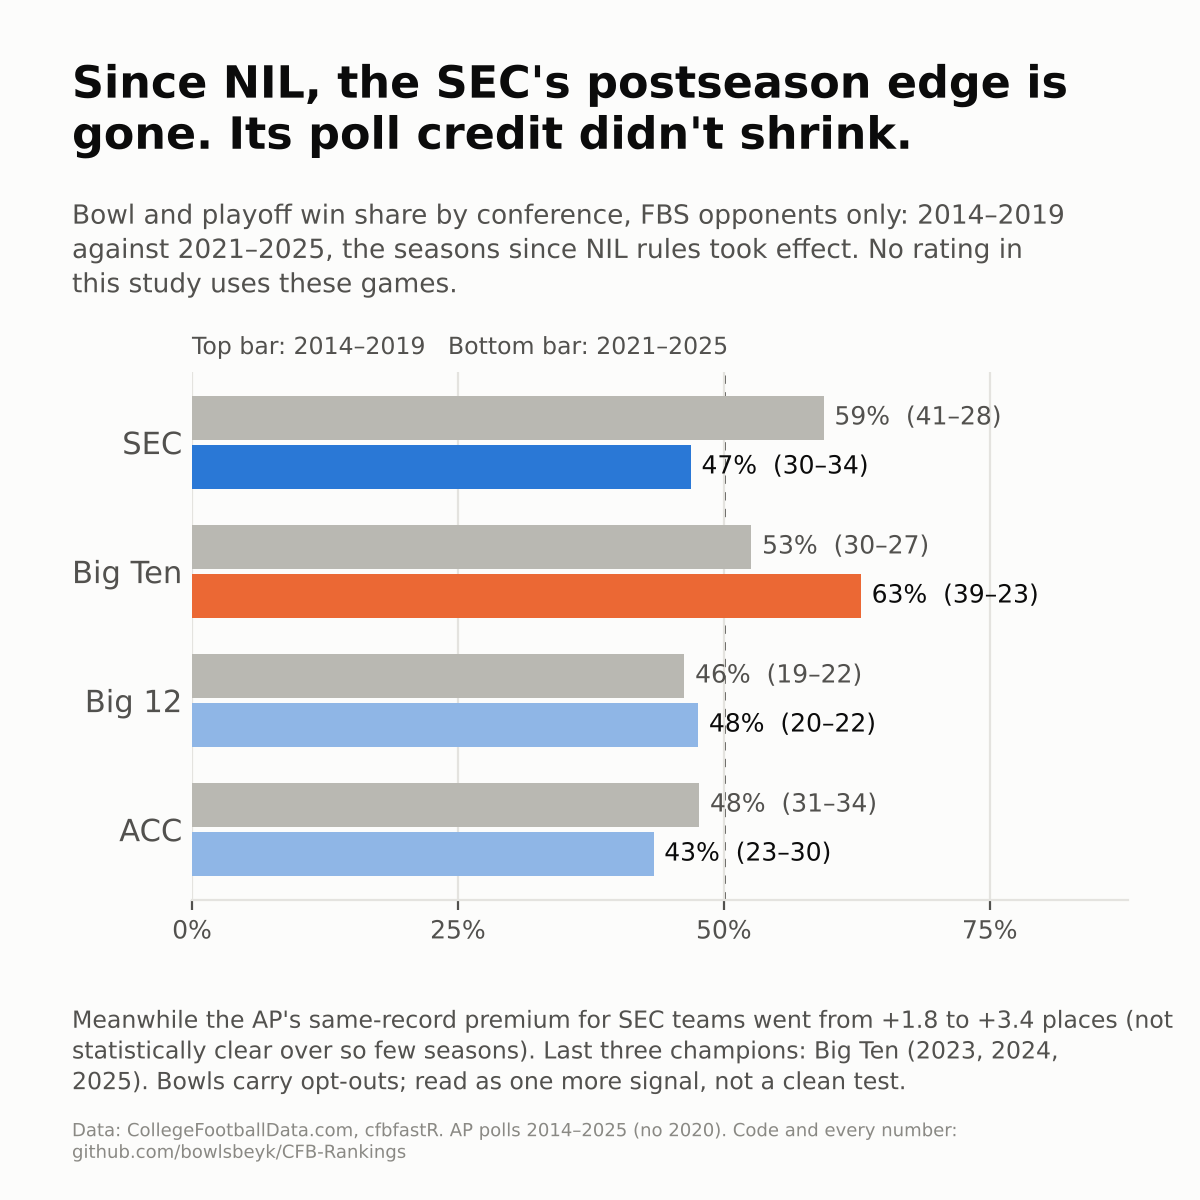
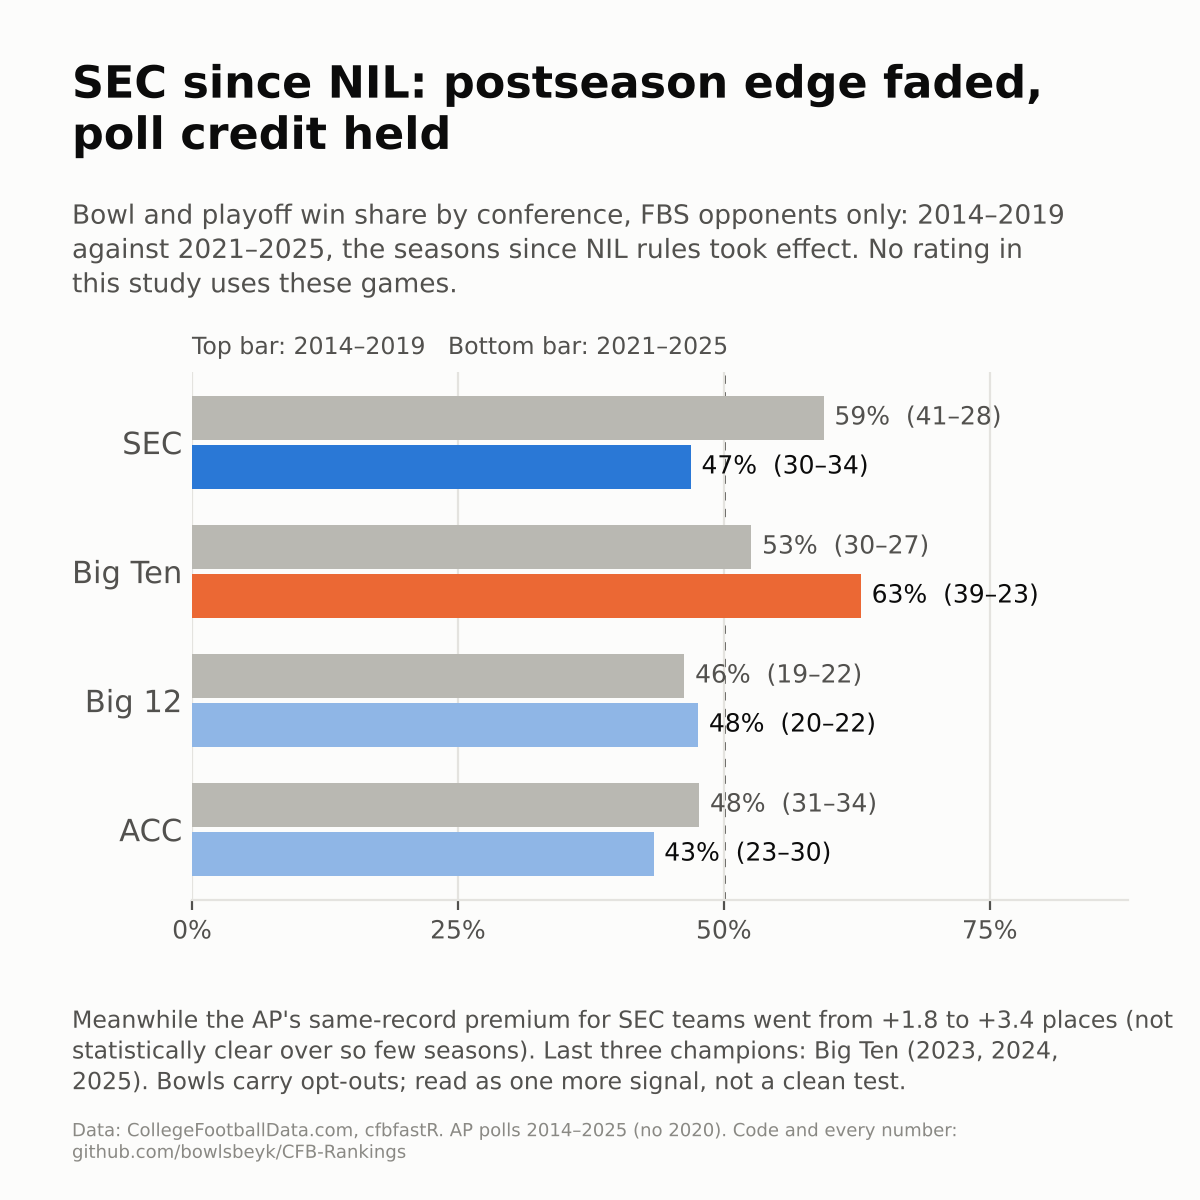
Final post fact-check fixes: post wording, chart 09 title, SUMMARY by-opponent numbers and double-count note
Claude-Session: https://claude.ai/code/session_01GTeiMk8jWVQkHmZYpQRphq

Changed region(s): [[0.0925, 0.0308, 0.8942, 0.1233], [0.0617, 0.0925, 0.0925, 0.1542]]

diff --git a/src/linkedin_figures.py b/src/linkedin_figures.py
@@ -349,7 +349,7 @@ def external(n):
 def postseason(n):
     ps, era = n["postseason_by_conference"], n["era_before_and_since_nil"]
     groups = ["SEC", "Big Ten", "Big 12", "ACC"]
-    fig = frame("Since NIL, the SEC's postseason edge is gone. Its poll credit didn't shrink.",
+    fig = frame("SEC since NIL: postseason edge faded, poll credit held",
                 "Bowl and playoff win share by conference, FBS opponents only: 2014–2019 against 2021–2025, the "
                 "seasons since NIL rules took effect. No rating in this study uses these games.")
     ax = fig.add_axes([0.16, 0.25, 0.78, 0.44])

diff --git a/results/linkedin_post_draft.md b/results/linkedin_post_draft.md
@@ -1,22 +1,22 @@
 I'm a Miami fan. Everyone is mad at the SEC right now, so I tested it: 11 seasons of AP polls against ratings built only from scores and schedules. No polls, no preseason, no team names.
 
-The short version: the polls still treat the SEC like it's 2017.
+The short version: with the same record, the polls still rank SEC teams higher, just as they did before NIL.
 
 What the data says:
 • Same record, different conference. When an SEC team and a team from another power conference have the same losses and nearly the same strength of record, the AP ranks the SEC team about 2.5 spots higher. The ACC team? About 2.7 spots lower. The playoff committee does it too.
-• It starts with the preseason poll. Head starts stick for everyone, and SEC teams start ahead most often.
-• Since NIL, that poll premium hasn't shrunk. If anything it grew: about +1.8 spots in 2014–19, +3.4 since 2021.
-• Meanwhile, the postseason edge is gone. The SEC went 41–28 (59%) in bowls and the playoff in 2014–19, and 30–34 (47%) since 2021, including 4–10 last year. The Big Ten went 39–23 and won the last three titles.
-• "Ranked wins" pad SEC schedules. This season SEC teams have played 71 games against teams ranked on game day and won 31. Thirteen of those wins came against teams that aren't top 25 by results today. Texas A&M was #9 when it lost to Kentucky. It's 79th now.
+• Part of it is the preseason poll. Head starts carry over (least clearly for the ACC), and SEC teams start ahead most often.
+• Since NIL, that poll premium shows no sign of shrinking: about +1.8 spots in 2014–19, +3.4 since 2021.
+• Meanwhile, the postseason edge has faded. The SEC went 41–28 (59%) in bowls and the playoff in 2014–19, and 30–34 (47%) since 2021, including 4–10 last year. The Big Ten went 39–23 and won the last three titles.
+• "Ranked wins" pad SEC schedules. This season SEC teams have faced a team ranked on game day 71 times (68 were SEC rivals) and won 31. Thirteen of those wins came against teams that aren't top 25 by results today (so did all five ACC ranked wins; the SEC just has more). Texas A&M was #9 when it lost to Kentucky. It's 79th by strength of record now.
 
 What keeps me honest:
-• Part of the poll gap is voters being right. Allowing for how the season ended, it's about 1.9 spots for the SEC and 1.5 for the ACC. Smaller, but still there.
-• By regular-season results alone, the SEC still has the most top-25 teams. But SEC teams mostly play each other, so the regular season can't show a decline the way the postseason can.
+• Part of the poll gap is voters being right. Allowing for how the season ended, it's about 1.9 spots up for the SEC and 1.5 down for the ACC. Smaller, but still there.
+• By regular-season results alone, the SEC still has the most top-25 teams. But SEC teams mostly play each other, so the regular season says little about a decline (in their few games against other power conferences, they've done better since 2021).
 • ESPN and SP+ rate SEC teams higher than my ratings do.
 • None of the before-and-after-NIL changes is statistically clear over five seasons, and bowls carry opt-outs.
-• This was about the seventh test I ran looking for an SEC effect, and the first to find one. Each was written down before it ran, and three independent reviewers checked the core numbers.
+• This was about the seventh test I ran looking for an SEC effect, and the first to find a clear, robust one. Most were written down before they ran, but I picked the headline after seeing them all. Three independent reviewers checked the main test.
 
-Bottom line: judge teams by results, not by the logo or the preseason poll. With the same record, an SEC team starts about two spots up and an ACC team about two down. Near the playoff cut line, two spots can decide who gets in.
+Bottom line: judge teams by results, not by the logo or the preseason poll. During the season, with the same record so far, an SEC team is ranked about two spots higher and an ACC team about two lower. By the final poll the data are too thin to tell, but near the cut line two spots matter.
 
 And Miami? Through week 11 it's #3 by strength of record, with the 22nd-toughest schedule by how its opponents have actually played. Game-day rankings put that schedule 59th.
 

diff --git a/SUMMARY.md b/SUMMARY.md
@@ -47,7 +47,7 @@ It was logged, and its code committed, before it ran ([`results/t8_matched.json`
 
 - **Design.** In every AP poll from poll 6 on, each SEC team in the strength-of-record top 30 is paired with a team from another power conference that has **the same number of losses** and nearly the same strength of record (within 3 places). The test asks which of the two the AP voters rank higher.
 - **Result: SEC NAME PREMIUM SHOWN.** The SEC team is ranked **2.5 places higher** (95% CI +1.2 to +3.8; higher in 10 of 11 seasons). The 605 pairs come from 92 SEC team-seasons, so the interval is computed across seasons, not pairs. Dropping any one season leaves +2.1 to +2.8, every interval above zero.
-- **Not clear against every conference:** the SEC is ranked clearly higher than same-résumé ACC (+3.3), Big Ten (+2.5) and Big 12 (+2.7) teams, but not Pac-12 teams (+1.0, CI includes zero).
+- **Not clear against every conference:** split by the match's conference, the SEC team is ranked clearly higher than same-record ACC (+3.6) and Big Ten (+3.3) teams, but not clearly higher than Big 12 (+2.0) or Pac-12 (−0.1) teams (see the review section below).
 - **Robust to every real pre-set check:** a tighter or looser match (±2 or ±5 places), matching on wins and losses alone, and both calibrations of the rating to results against outsiders (+1.9 and +2.6). (A sixth logged check, AP rank in place of rank points, turned out to be algebraically the same as the main test and cannot fail, so it is not counted.)
 - **Against ACC teams with the same résumé:** the SEC team is ranked **3.3 places higher** (CI +1.6 to +4.9; 11 of 11 seasons).
 - **The playoff committee does it too:** +1.8 places (CI +0.8 to +2.7; 9 of 11 seasons).
@@ -168,7 +168,7 @@ Three independent reviewers checked these results before publication. One rebuil
 - **Why the regular season can hide it:** SEC teams mostly play each other, so their results largely cancel within the conference. The postseason is where they meet everyone else.
 
 **2026 "ranked wins"** ([`results/ranked_wins_2026.csv`](results/ranked_wins_2026.csv), through week 11):
-- **Volume:** SEC teams have played 71 games against opponents ranked on game day (Big Ten 45, Big 12 41, ACC 28).
+- **Volume:** SEC teams have faced an opponent ranked on game day 71 times (68 of them SEC rivals, so some games count twice, once for each SEC team) (Big Ten 45, Big 12 41, ACC 28).
 - **Wins:** they won 31, and **13** of those wins came against teams now outside the strength-of-record top 25.
 - **Examples:** Texas A&M was AP #9 on game day and is now 79th by strength of record; Mississippi State (#16–24) is now 73rd; Missouri (#13–25) is now 31st.
 - **Not SEC-only:** all 5 of the ACC's ranked wins also came against teams now outside the results top 25. The SEC just has far more of them.
